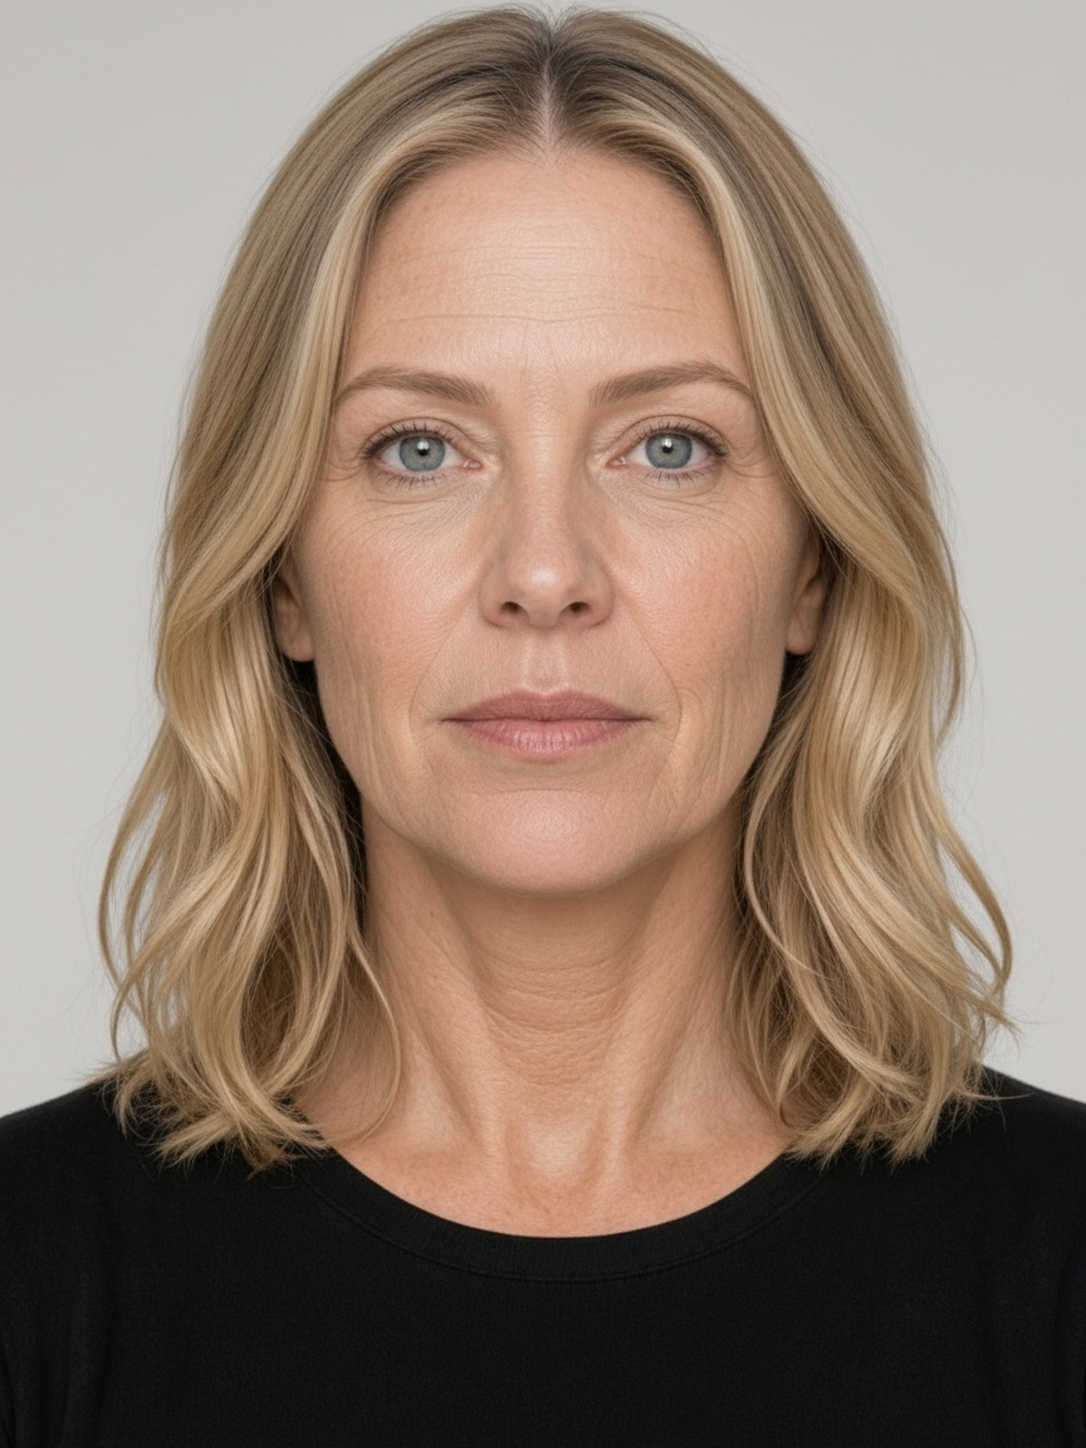
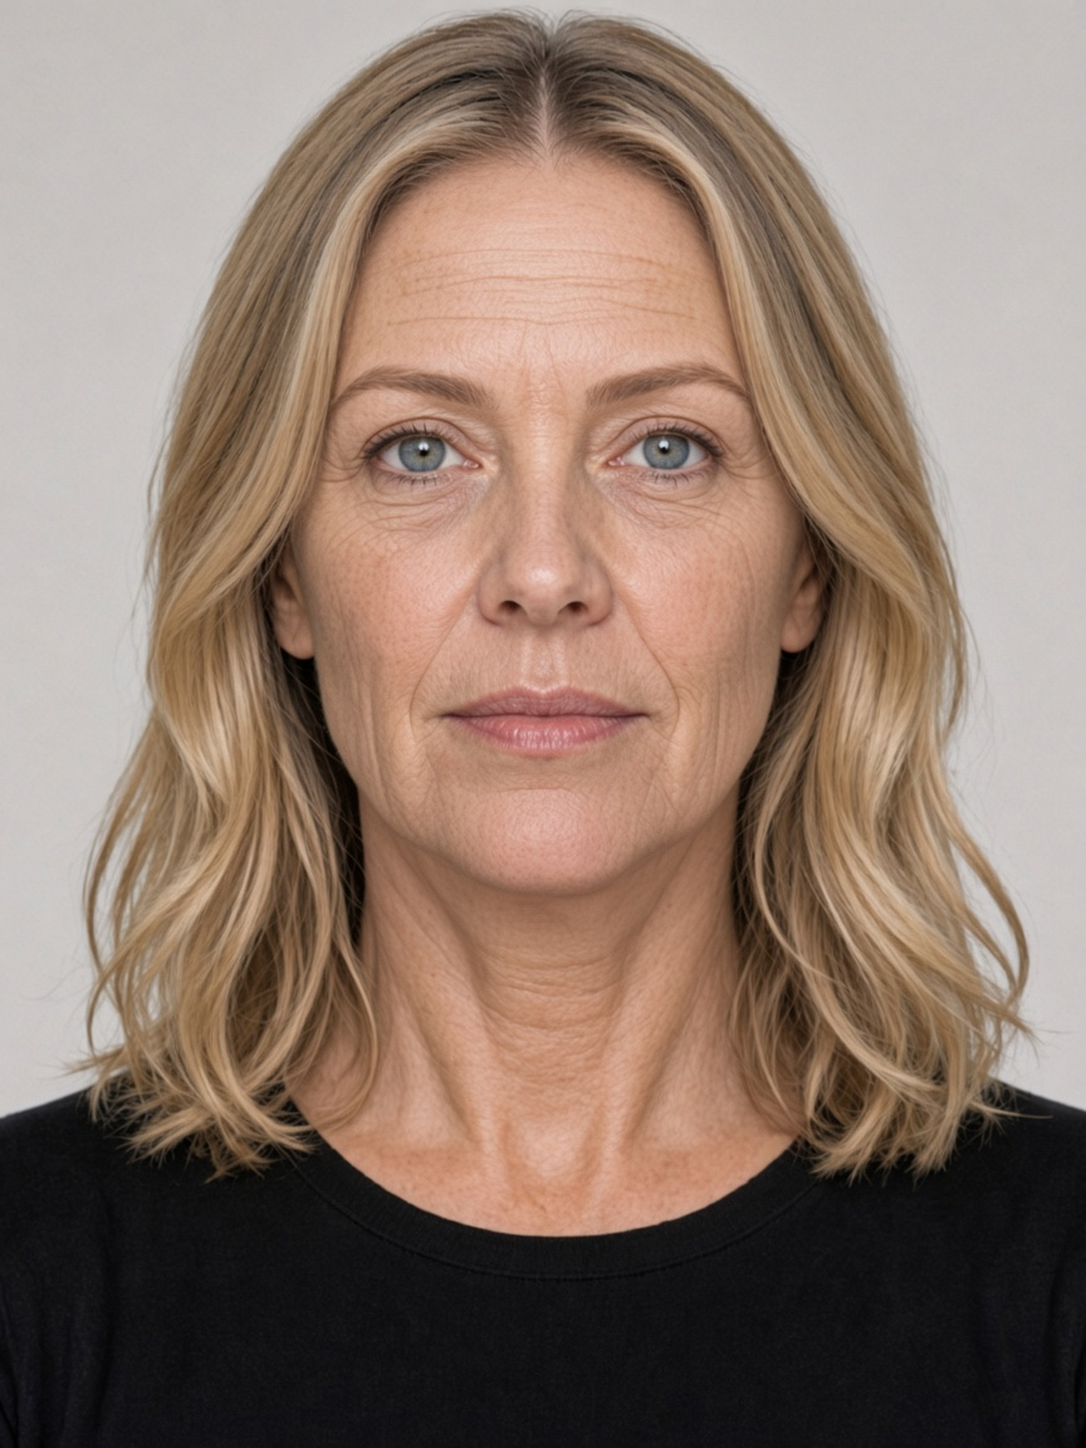
Regenerate hero before/after for a stronger slider contrast.
Bump hero PNG cache bust to v=9 across landing, embed, and demo pages; remove unused WebP copies.

diff --git a/c/demo-medspa/index.html b/c/demo-medspa/index.html
@@ -156,8 +156,8 @@ h1{font:400 clamp(2rem,5vw,2.75rem)/1.1 var(--serif);margin:0 0 16px;letter-spac
 <h2 id="demoTitle">Example preview</h2>
 <p>Drag to compare before and after—then try it on your own photo.</p>
 <div class="cmp" id="demoCmp" aria-label="Example before and after">
-<div class="L"><img src="/before.png?v=8" alt="Before example"></div>
-<div class="L after"><img src="/after.png?v=8" alt="After example"></div>
+<div class="L"><img src="/before.png?v=9" alt="Before example"></div>
+<div class="L after"><img src="/after.png?v=9" alt="After example"></div>
 <div class="bar"></div><div class="knob"></div>
 <span class="tag b">Before</span><span class="tag a">After</span>
 <div class="cmp-drag">Drag to compare</div>

diff --git a/embed-loader.js b/embed-loader.js
@@ -110,8 +110,8 @@ function mountPrompt(cfg) {
   const clinicName = escapeHtml(cfg.name || "Your clinic");
   const labelSafe = escapeHtml(label);
   const origin = siteOrigin();
-  const beforeImg = `${origin}/before.png?v=8`;
-  const afterImg = `${origin}/after.png?v=8`;
+  const beforeImg = `${origin}/before.png?v=9`;
+  const afterImg = `${origin}/after.png?v=9`;
 
   root.innerHTML = `
 <style>

diff --git a/lib/app.js b/lib/app.js
@@ -40,8 +40,8 @@ if (CONFIG.siteUrl && !isEmbed) {
 
 const $ = (s) => document.querySelector(s);
 const assetRoot = assetPrefix();
-const BEFORE = `${assetRoot}before.png?v=8`;
-const AFTER = `${assetRoot}after.png?v=8`;
+const BEFORE = `${assetRoot}before.png?v=9`;
+const AFTER = `${assetRoot}after.png?v=9`;
 let intensity = "strong";
 const sel = new Set();
 let photo = null;
